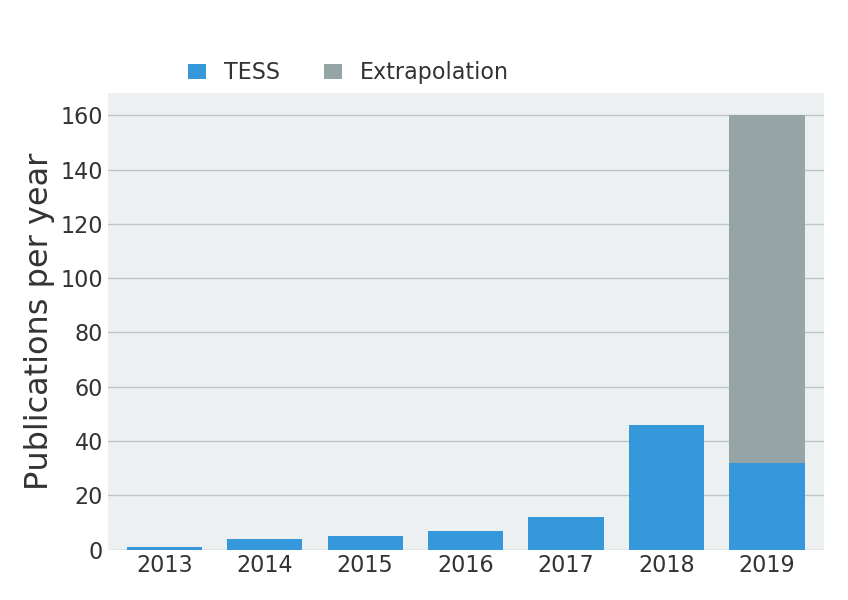
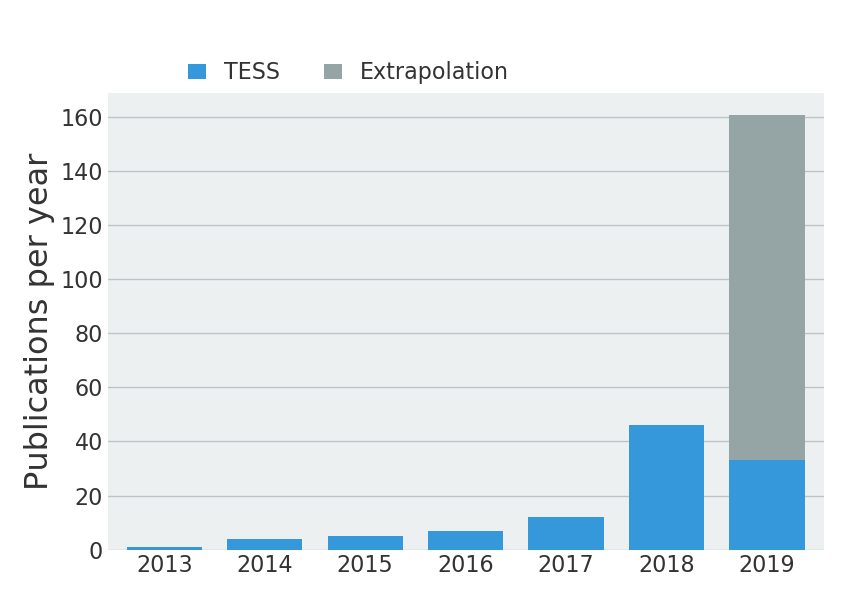
Publication stats update

diff --git a/content/pages/tpub/tpub.md b/content/pages/tpub/tpub.md
@@ -55,83 +55,87 @@ Dumusque, X., Turner, O., Dorn, C., et al.
 Gandolfi, Davide, Fossati, Luca, Livingston, John H., et al.    
 2019, not refereed ([2019arXiv190305623G](http://adsabs.harvard.edu/abs/2019arXiv190305623G))  
 
-13. [TESS EXOPLANET CANDIDATES VALIDATED WITH HARPS ARCHIVAL DATA. A MASSIVE NEPTUNE AROUND GJ 143 AND TWO NEPTUNES AROUND HD 23472](http://adsabs.harvard.edu/abs/2019A&A...622L...7T)  
+13. [A SUPER-EARTH AND TWO SUB-NEPTUNES TRANSITING THE BRIGHT, NEARBY, AND QUIET M-DWARF TOI-270](http://adsabs.harvard.edu/abs/2019arXiv190306107G)  
+Günther, Maximilian N., Pozuelos, Francisco J., Dittmann, Jason A., et al.    
+2019, not refereed ([2019arXiv190306107G](http://adsabs.harvard.edu/abs/2019arXiv190306107G))  
+
+14. [TESS EXOPLANET CANDIDATES VALIDATED WITH HARPS ARCHIVAL DATA. A MASSIVE NEPTUNE AROUND GJ 143 AND TWO NEPTUNES AROUND HD 23472](http://adsabs.harvard.edu/abs/2019A&A...622L...7T)  
 Trifonov, Trifon, Rybizki, Jan, Kürster, Martin    
 2019, refereed ([2019A&A...622L...7T](http://adsabs.harvard.edu/abs/2019A&A...622L...7T))  
 
-14. [HD 202772A B: A TRANSITING HOT JUPITER AROUND A BRIGHT, MILDLY EVOLVED STAR IN A VISUAL BINARY DISCOVERED BY TESS](http://adsabs.harvard.edu/abs/2019AJ....157...51W)  
+15. [HD 202772A B: A TRANSITING HOT JUPITER AROUND A BRIGHT, MILDLY EVOLVED STAR IN A VISUAL BINARY DISCOVERED BY TESS](http://adsabs.harvard.edu/abs/2019AJ....157...51W)  
 Wang, Songhu, Jones, Matias, Shporer, Avi, et al.    
 2019, refereed ([2019AJ....157...51W](http://adsabs.harvard.edu/abs/2019AJ....157...51W))  
 
-15. [AN ESTIMATE OF THE YIELD OF SINGLE-TRANSIT PLANETARY EVENTS FROM THE TRANSITING EXOPLANET SURVEY SATELLITE](http://adsabs.harvard.edu/abs/2019AJ....157...84V)  
+16. [AN ESTIMATE OF THE YIELD OF SINGLE-TRANSIT PLANETARY EVENTS FROM THE TRANSITING EXOPLANET SURVEY SATELLITE](http://adsabs.harvard.edu/abs/2019AJ....157...84V)  
 Villanueva, Steven, Jr., Dragomir, Diana, Gaudi, B. Scott    
 2019, refereed ([2019AJ....157...84V](http://adsabs.harvard.edu/abs/2019AJ....157...84V))  
 
-16. [TESS DISCOVERY OF AN ULTRA-SHORT-PERIOD PLANET AROUND THE NEARBY M DWARF LHS 3844](http://adsabs.harvard.edu/abs/2019ApJ...871L..24V)  
+17. [TESS DISCOVERY OF AN ULTRA-SHORT-PERIOD PLANET AROUND THE NEARBY M DWARF LHS 3844](http://adsabs.harvard.edu/abs/2019ApJ...871L..24V)  
 Vanderspek, Roland, Huang, Chelsea X., Vanderburg, Andrew, et al.    
 2019, refereed ([2019ApJ...871L..24V](http://adsabs.harvard.edu/abs/2019ApJ...871L..24V))  
 
-17. [DIVERSE VARIABILITY OF O AND B STARS REVEALED FROM 2-MINUTE CADENCE LIGHT CURVES IN SECTORS 1 AND 2 OF THE TESS MISSION: SELECTION OF AN ASTEROSEISMIC SAMPLE](http://adsabs.harvard.edu/abs/2019ApJ...872L...9P)  
+18. [DIVERSE VARIABILITY OF O AND B STARS REVEALED FROM 2-MINUTE CADENCE LIGHT CURVES IN SECTORS 1 AND 2 OF THE TESS MISSION: SELECTION OF AN ASTEROSEISMIC SAMPLE](http://adsabs.harvard.edu/abs/2019ApJ...872L...9P)  
 Pedersen, May G., Chowdhury, Sowgata, Johnston, Cole, et al.    
 2019, refereed ([2019ApJ...872L...9P](http://adsabs.harvard.edu/abs/2019ApJ...872L...9P))  
 
-18. [EXOPLANETS IN THE ANTARCTIC SKY. I. THE FIRST DATA RELEASE OF AST3-II (CHESPA) AND NEW FOUND VARIABLES WITHIN THE SOUTHERN CVZ OF TESS](http://adsabs.harvard.edu/abs/2019ApJS..240...16Z)  
+19. [EXOPLANETS IN THE ANTARCTIC SKY. I. THE FIRST DATA RELEASE OF AST3-II (CHESPA) AND NEW FOUND VARIABLES WITHIN THE SOUTHERN CVZ OF TESS](http://adsabs.harvard.edu/abs/2019ApJS..240...16Z)  
 Zhang, Hui, Yu, Zhouyi, Liang, Ensi, et al.    
 2019, refereed ([2019ApJS..240...16Z](http://adsabs.harvard.edu/abs/2019ApJS..240...16Z))  
 
-19. [EXOPLANETS IN THE ANTARCTIC SKY. II. 116 TRANSITING EXOPLANET CANDIDATES FOUND BY AST3-II (CHESPA) WITHIN THE SOUTHERN CVZ OF TESS](http://adsabs.harvard.edu/abs/2019ApJS..240...17Z)  
+20. [EXOPLANETS IN THE ANTARCTIC SKY. II. 116 TRANSITING EXOPLANET CANDIDATES FOUND BY AST3-II (CHESPA) WITHIN THE SOUTHERN CVZ OF TESS](http://adsabs.harvard.edu/abs/2019ApJS..240...17Z)  
 Zhang, Hui, Yu, Zhouyi, Liang, Ensi, et al.    
 2019, refereed ([2019ApJS..240...17Z](http://adsabs.harvard.edu/abs/2019ApJS..240...17Z))  
 
-20. [ROTATIONAL MODULATION IN TESS B STARS](http://adsabs.harvard.edu/abs/2019MNRAS.tmp..576B)  
+21. [ROTATIONAL MODULATION IN TESS B STARS](http://adsabs.harvard.edu/abs/2019MNRAS.tmp..576B)  
 Balona, L. A., Handler, G., Chowdhury, S., et al.    
 2019, refereed ([2019MNRAS.tmp..576B](http://adsabs.harvard.edu/abs/2019MNRAS.tmp..576B))  
 
-21. [A RESONANT PAIR OF WARM GIANT PLANETS REVEALED BY TESS](http://adsabs.harvard.edu/abs/2019arXiv190203900K)  
+22. [A RESONANT PAIR OF WARM GIANT PLANETS REVEALED BY TESS](http://adsabs.harvard.edu/abs/2019arXiv190203900K)  
 Kipping, David, Nesvorný, David, Hartman, Joel, et al.    
 2019, not refereed ([2019arXiv190203900K](http://adsabs.harvard.edu/abs/2019arXiv190203900K))  
 
-22. [RAPID CLASSIFICATION OF TESS PLANET CANDIDATES WITH CONVOLUTIONAL NEURAL NETWORKS](http://adsabs.harvard.edu/abs/2019arXiv190208544O)  
+23. [RAPID CLASSIFICATION OF TESS PLANET CANDIDATES WITH CONVOLUTIONAL NEURAL NETWORKS](http://adsabs.harvard.edu/abs/2019arXiv190208544O)  
 Osborn, Hugh P., Ansdell, Megan, Ioannou, Yani, et al.    
 2019, not refereed ([2019arXiv190208544O](http://adsabs.harvard.edu/abs/2019arXiv190208544O))  
 
-23. [TOI-150: A TRANSITING HOT JUPITER IN THE TESS SOUTHERN CVZ](http://adsabs.harvard.edu/abs/2019arXiv190209710C)  
+24. [TOI-150: A TRANSITING HOT JUPITER IN THE TESS SOUTHERN CVZ](http://adsabs.harvard.edu/abs/2019arXiv190209710C)  
 Cañas, Caleb I., Stefansson, Gudmundur, Monson, Andrew J., et al.    
 2019, not refereed ([2019arXiv190209710C](http://adsabs.harvard.edu/abs/2019arXiv190209710C))  
 
-24. [FLIPER$_{CLASS}$: IN SEARCH OF SOLAR-LIKE PULSATORS AMONG TESS TARGETS](http://adsabs.harvard.edu/abs/2019arXiv190209854B)  
+25. [FLIPER$_{CLASS}$: IN SEARCH OF SOLAR-LIKE PULSATORS AMONG TESS TARGETS](http://adsabs.harvard.edu/abs/2019arXiv190209854B)  
 Bugnet, L., García, R. A., Mathur, S., et al.    
 2019, not refereed ([2019arXiv190209854B](http://adsabs.harvard.edu/abs/2019arXiv190209854B))  
 
-25. [PRECOVERY OF TRANSITING EXOPLANET SURVEY SATELLITE SINGLE TRANSITS WITH KILODEGREE EXTREMELY LITTLE TELESCOPE](http://adsabs.harvard.edu/abs/2019AJ....157...37Y)  
+26. [PRECOVERY OF TRANSITING EXOPLANET SURVEY SATELLITE SINGLE TRANSITS WITH KILODEGREE EXTREMELY LITTLE TELESCOPE](http://adsabs.harvard.edu/abs/2019AJ....157...37Y)  
 Yao, Xinyu, Pepper, Joshua, Gaudi, B. Scott, et al.    
 2019, refereed ([2019AJ....157...37Y](http://adsabs.harvard.edu/abs/2019AJ....157...37Y))  
 
-26. [STELLAR FLARES FROM THE FIRST TESS DATA RELEASE: EXPLORING A NEW SAMPLE OF M-DWARFS](http://adsabs.harvard.edu/abs/2019arXiv190100443G)  
+27. [STELLAR FLARES FROM THE FIRST TESS DATA RELEASE: EXPLORING A NEW SAMPLE OF M-DWARFS](http://adsabs.harvard.edu/abs/2019arXiv190100443G)  
 Günther, Maximilian N., Zhan, Zhuchang, Seager, Sara, et al.    
 2019, not refereed ([2019arXiv190100443G](http://adsabs.harvard.edu/abs/2019arXiv190100443G))  
 
-27. [A HOT SATURN ORBITING AN OSCILLATING LATE SUBGIANT DISCOVERED BY TESS](http://adsabs.harvard.edu/abs/2019arXiv190101643H)  
+28. [A HOT SATURN ORBITING AN OSCILLATING LATE SUBGIANT DISCOVERED BY TESS](http://adsabs.harvard.edu/abs/2019arXiv190101643H)  
 Huber, Daniel, Chaplin, William J., Chontos, Ashley, et al.    
 2019, not refereed ([2019arXiv190101643H](http://adsabs.harvard.edu/abs/2019arXiv190101643H))  
 
-28. [CO-ORBITAL EXOPLANETS FROM CLOSE PERIOD CANDIDATES: THE TOI-178 CASE](http://adsabs.harvard.edu/abs/2019arXiv190107250L)  
+29. [CO-ORBITAL EXOPLANETS FROM CLOSE PERIOD CANDIDATES: THE TOI-178 CASE](http://adsabs.harvard.edu/abs/2019arXiv190107250L)  
 Leleu, Adrien, Lillo-Box, Jorge, Sestovic, Marko, et al.    
 2019, not refereed ([2019arXiv190107250L](http://adsabs.harvard.edu/abs/2019arXiv190107250L))  
 
-29. [NEAR-RESONANCE IN A SYSTEM OF SUB-NEPTUNES FROM TESS](http://adsabs.harvard.edu/abs/2019arXiv190109092Q)  
+30. [NEAR-RESONANCE IN A SYSTEM OF SUB-NEPTUNES FROM TESS](http://adsabs.harvard.edu/abs/2019arXiv190109092Q)  
 Quinn, Samuel N., Becker, Juliette C., Rodriguez, Joseph E., et al.    
 2019, not refereed ([2019arXiv190109092Q](http://adsabs.harvard.edu/abs/2019arXiv190109092Q))  
 
-30. [SHORT TERM VARIABILITY OF EVOLVED MASSIVE STARS WITH TESS](http://adsabs.harvard.edu/abs/2019arXiv190109930D)  
+31. [SHORT TERM VARIABILITY OF EVOLVED MASSIVE STARS WITH TESS](http://adsabs.harvard.edu/abs/2019arXiv190109930D)  
 Dorn-Wallenstein, Trevor Z., Levesque, Emily M., Davenport, James R. A.    
 2019, not refereed ([2019arXiv190109930D](http://adsabs.harvard.edu/abs/2019arXiv190109930D))  
 
-31. [AN ECCENTRIC MASSIVE JUPITER ORBITING A SUB-GIANT ON A 9.5 DAY PERIOD DISCOVERED IN THE TRANSITING EXOPLANET SURVEY SATELLITE FULL FRAME IMAGES](http://adsabs.harvard.edu/abs/2019arXiv190109950R)  
+32. [AN ECCENTRIC MASSIVE JUPITER ORBITING A SUB-GIANT ON A 9.5 DAY PERIOD DISCOVERED IN THE TRANSITING EXOPLANET SURVEY SATELLITE FULL FRAME IMAGES](http://adsabs.harvard.edu/abs/2019arXiv190109950R)  
 Rodriguez, Joseph E., Quinn, Samuel N., Huang, Chelsea X., et al.    
 2019, not refereed ([2019arXiv190109950R](http://adsabs.harvard.edu/abs/2019arXiv190109950R))  
 
-32. [THE ASTEROSEISMIC TARGET LIST (ATL) FOR SOLAR-LIKE OSCILLATORS OBSERVED IN 2-MINUTE CADENCE WITH THE TRANSITING EXOPLANET SURVEY SATELLITE (TESS)](http://adsabs.harvard.edu/abs/2019arXiv190110148S)  
+33. [THE ASTEROSEISMIC TARGET LIST (ATL) FOR SOLAR-LIKE OSCILLATORS OBSERVED IN 2-MINUTE CADENCE WITH THE TRANSITING EXOPLANET SURVEY SATELLITE (TESS)](http://adsabs.harvard.edu/abs/2019arXiv190110148S)  
 Schofield, M., Chaplin, W. J., Huber, D., et al.    
 2019, not refereed ([2019arXiv190110148S](http://adsabs.harvard.edu/abs/2019arXiv190110148S))  
 

diff --git a/content/pages/tpub/tpub-exoplanets.md b/content/pages/tpub/tpub-exoplanets.md
@@ -31,59 +31,63 @@ Dumusque, X., Turner, O., Dorn, C., et al.
 Gandolfi, Davide, Fossati, Luca, Livingston, John H., et al.    
 2019, not refereed ([2019arXiv190305623G](http://adsabs.harvard.edu/abs/2019arXiv190305623G))  
 
-7. [TESS EXOPLANET CANDIDATES VALIDATED WITH HARPS ARCHIVAL DATA. A MASSIVE NEPTUNE AROUND GJ 143 AND TWO NEPTUNES AROUND HD 23472](http://adsabs.harvard.edu/abs/2019A&A...622L...7T)  
+7. [A SUPER-EARTH AND TWO SUB-NEPTUNES TRANSITING THE BRIGHT, NEARBY, AND QUIET M-DWARF TOI-270](http://adsabs.harvard.edu/abs/2019arXiv190306107G)  
+Günther, Maximilian N., Pozuelos, Francisco J., Dittmann, Jason A., et al.    
+2019, not refereed ([2019arXiv190306107G](http://adsabs.harvard.edu/abs/2019arXiv190306107G))  
+
+8. [TESS EXOPLANET CANDIDATES VALIDATED WITH HARPS ARCHIVAL DATA. A MASSIVE NEPTUNE AROUND GJ 143 AND TWO NEPTUNES AROUND HD 23472](http://adsabs.harvard.edu/abs/2019A&A...622L...7T)  
 Trifonov, Trifon, Rybizki, Jan, Kürster, Martin    
 2019, refereed ([2019A&A...622L...7T](http://adsabs.harvard.edu/abs/2019A&A...622L...7T))  
 
-8. [HD 202772A B: A TRANSITING HOT JUPITER AROUND A BRIGHT, MILDLY EVOLVED STAR IN A VISUAL BINARY DISCOVERED BY TESS](http://adsabs.harvard.edu/abs/2019AJ....157...51W)  
+9. [HD 202772A B: A TRANSITING HOT JUPITER AROUND A BRIGHT, MILDLY EVOLVED STAR IN A VISUAL BINARY DISCOVERED BY TESS](http://adsabs.harvard.edu/abs/2019AJ....157...51W)  
 Wang, Songhu, Jones, Matias, Shporer, Avi, et al.    
 2019, refereed ([2019AJ....157...51W](http://adsabs.harvard.edu/abs/2019AJ....157...51W))  
 
-9. [AN ESTIMATE OF THE YIELD OF SINGLE-TRANSIT PLANETARY EVENTS FROM THE TRANSITING EXOPLANET SURVEY SATELLITE](http://adsabs.harvard.edu/abs/2019AJ....157...84V)  
+10. [AN ESTIMATE OF THE YIELD OF SINGLE-TRANSIT PLANETARY EVENTS FROM THE TRANSITING EXOPLANET SURVEY SATELLITE](http://adsabs.harvard.edu/abs/2019AJ....157...84V)  
 Villanueva, Steven, Jr., Dragomir, Diana, Gaudi, B. Scott    
 2019, refereed ([2019AJ....157...84V](http://adsabs.harvard.edu/abs/2019AJ....157...84V))  
 
-10. [TESS DISCOVERY OF AN ULTRA-SHORT-PERIOD PLANET AROUND THE NEARBY M DWARF LHS 3844](http://adsabs.harvard.edu/abs/2019ApJ...871L..24V)  
+11. [TESS DISCOVERY OF AN ULTRA-SHORT-PERIOD PLANET AROUND THE NEARBY M DWARF LHS 3844](http://adsabs.harvard.edu/abs/2019ApJ...871L..24V)  
 Vanderspek, Roland, Huang, Chelsea X., Vanderburg, Andrew, et al.    
 2019, refereed ([2019ApJ...871L..24V](http://adsabs.harvard.edu/abs/2019ApJ...871L..24V))  
 
-11. [EXOPLANETS IN THE ANTARCTIC SKY. I. THE FIRST DATA RELEASE OF AST3-II (CHESPA) AND NEW FOUND VARIABLES WITHIN THE SOUTHERN CVZ OF TESS](http://adsabs.harvard.edu/abs/2019ApJS..240...16Z)  
+12. [EXOPLANETS IN THE ANTARCTIC SKY. I. THE FIRST DATA RELEASE OF AST3-II (CHESPA) AND NEW FOUND VARIABLES WITHIN THE SOUTHERN CVZ OF TESS](http://adsabs.harvard.edu/abs/2019ApJS..240...16Z)  
 Zhang, Hui, Yu, Zhouyi, Liang, Ensi, et al.    
 2019, refereed ([2019ApJS..240...16Z](http://adsabs.harvard.edu/abs/2019ApJS..240...16Z))  
 
-12. [EXOPLANETS IN THE ANTARCTIC SKY. II. 116 TRANSITING EXOPLANET CANDIDATES FOUND BY AST3-II (CHESPA) WITHIN THE SOUTHERN CVZ OF TESS](http://adsabs.harvard.edu/abs/2019ApJS..240...17Z)  
+13. [EXOPLANETS IN THE ANTARCTIC SKY. II. 116 TRANSITING EXOPLANET CANDIDATES FOUND BY AST3-II (CHESPA) WITHIN THE SOUTHERN CVZ OF TESS](http://adsabs.harvard.edu/abs/2019ApJS..240...17Z)  
 Zhang, Hui, Yu, Zhouyi, Liang, Ensi, et al.    
 2019, refereed ([2019ApJS..240...17Z](http://adsabs.harvard.edu/abs/2019ApJS..240...17Z))  
 
-13. [A RESONANT PAIR OF WARM GIANT PLANETS REVEALED BY TESS](http://adsabs.harvard.edu/abs/2019arXiv190203900K)  
+14. [A RESONANT PAIR OF WARM GIANT PLANETS REVEALED BY TESS](http://adsabs.harvard.edu/abs/2019arXiv190203900K)  
 Kipping, David, Nesvorný, David, Hartman, Joel, et al.    
 2019, not refereed ([2019arXiv190203900K](http://adsabs.harvard.edu/abs/2019arXiv190203900K))  
 
-14. [RAPID CLASSIFICATION OF TESS PLANET CANDIDATES WITH CONVOLUTIONAL NEURAL NETWORKS](http://adsabs.harvard.edu/abs/2019arXiv190208544O)  
+15. [RAPID CLASSIFICATION OF TESS PLANET CANDIDATES WITH CONVOLUTIONAL NEURAL NETWORKS](http://adsabs.harvard.edu/abs/2019arXiv190208544O)  
 Osborn, Hugh P., Ansdell, Megan, Ioannou, Yani, et al.    
 2019, not refereed ([2019arXiv190208544O](http://adsabs.harvard.edu/abs/2019arXiv190208544O))  
 
-15. [TOI-150: A TRANSITING HOT JUPITER IN THE TESS SOUTHERN CVZ](http://adsabs.harvard.edu/abs/2019arXiv190209710C)  
+16. [TOI-150: A TRANSITING HOT JUPITER IN THE TESS SOUTHERN CVZ](http://adsabs.harvard.edu/abs/2019arXiv190209710C)  
 Cañas, Caleb I., Stefansson, Gudmundur, Monson, Andrew J., et al.    
 2019, not refereed ([2019arXiv190209710C](http://adsabs.harvard.edu/abs/2019arXiv190209710C))  
 
-16. [PRECOVERY OF TRANSITING EXOPLANET SURVEY SATELLITE SINGLE TRANSITS WITH KILODEGREE EXTREMELY LITTLE TELESCOPE](http://adsabs.harvard.edu/abs/2019AJ....157...37Y)  
+17. [PRECOVERY OF TRANSITING EXOPLANET SURVEY SATELLITE SINGLE TRANSITS WITH KILODEGREE EXTREMELY LITTLE TELESCOPE](http://adsabs.harvard.edu/abs/2019AJ....157...37Y)  
 Yao, Xinyu, Pepper, Joshua, Gaudi, B. Scott, et al.    
 2019, refereed ([2019AJ....157...37Y](http://adsabs.harvard.edu/abs/2019AJ....157...37Y))  
 
-17. [A HOT SATURN ORBITING AN OSCILLATING LATE SUBGIANT DISCOVERED BY TESS](http://adsabs.harvard.edu/abs/2019arXiv190101643H)  
+18. [A HOT SATURN ORBITING AN OSCILLATING LATE SUBGIANT DISCOVERED BY TESS](http://adsabs.harvard.edu/abs/2019arXiv190101643H)  
 Huber, Daniel, Chaplin, William J., Chontos, Ashley, et al.    
 2019, not refereed ([2019arXiv190101643H](http://adsabs.harvard.edu/abs/2019arXiv190101643H))  
 
-18. [CO-ORBITAL EXOPLANETS FROM CLOSE PERIOD CANDIDATES: THE TOI-178 CASE](http://adsabs.harvard.edu/abs/2019arXiv190107250L)  
+19. [CO-ORBITAL EXOPLANETS FROM CLOSE PERIOD CANDIDATES: THE TOI-178 CASE](http://adsabs.harvard.edu/abs/2019arXiv190107250L)  
 Leleu, Adrien, Lillo-Box, Jorge, Sestovic, Marko, et al.    
 2019, not refereed ([2019arXiv190107250L](http://adsabs.harvard.edu/abs/2019arXiv190107250L))  
 
-19. [NEAR-RESONANCE IN A SYSTEM OF SUB-NEPTUNES FROM TESS](http://adsabs.harvard.edu/abs/2019arXiv190109092Q)  
+20. [NEAR-RESONANCE IN A SYSTEM OF SUB-NEPTUNES FROM TESS](http://adsabs.harvard.edu/abs/2019arXiv190109092Q)  
 Quinn, Samuel N., Becker, Juliette C., Rodriguez, Joseph E., et al.    
 2019, not refereed ([2019arXiv190109092Q](http://adsabs.harvard.edu/abs/2019arXiv190109092Q))  
 
-20. [AN ECCENTRIC MASSIVE JUPITER ORBITING A SUB-GIANT ON A 9.5 DAY PERIOD DISCOVERED IN THE TRANSITING EXOPLANET SURVEY SATELLITE FULL FRAME IMAGES](http://adsabs.harvard.edu/abs/2019arXiv190109950R)  
+21. [AN ECCENTRIC MASSIVE JUPITER ORBITING A SUB-GIANT ON A 9.5 DAY PERIOD DISCOVERED IN THE TRANSITING EXOPLANET SURVEY SATELLITE FULL FRAME IMAGES](http://adsabs.harvard.edu/abs/2019arXiv190109950R)  
 Rodriguez, Joseph E., Quinn, Samuel N., Huang, Chelsea X., et al.    
 2019, not refereed ([2019arXiv190109950R](http://adsabs.harvard.edu/abs/2019arXiv190109950R))  
 

diff --git a/content/pages/tpub/publications.md b/content/pages/tpub/publications.md
@@ -12,7 +12,7 @@ the TESS mission is provided by the NASA Explorer Program.*
 
 The TESS Science Support Center curates a list of scientific publications
 pertaining to TESS.
-The database contains 107 publications,
+The database contains 108 publications,
 of which 56 are peer-reviewed.
 It demonstrates the important impact of TESS data
 on astronomical research.
@@ -29,7 +29,7 @@ Or seach by topic:
 If you spot an error in the database, such as a missing entry,
 please get in touch or open an issue in the <a href="https://github.com/tessgi/tpub">GitHub repository</a> of the database.
 
-Last update: 14 Mar 2019.
+Last update: 16 Mar 2019.
 
 <hr/>
 
@@ -46,7 +46,7 @@ of year.
 
 Both TESS data have been used for scientific applications
 that reach far beyond exoplanet research.
-While 62 works relate to exoplanets
+While 63 works relate to exoplanets
 (58%),
 a total of 45
 pertain to other areas of astrophysics
@@ -130,7 +130,7 @@ within the last 90 days.
 <!-- ## Most-active authors
 
 The entries in the publication database have been authored and co-authored
-by a total of 839 unique author names.
+by a total of 847 unique author names.
 Here we list the most-active authors, defined as those with six or more first-author publications in our database.
 
 -->

diff --git a/content/pages/tpub/tpub-by-month.md b/content/pages/tpub/tpub-by-month.md
@@ -59,6 +59,10 @@ Dumusque, X., Turner, O., Dorn, C., et al.
 Gandolfi, Davide, Fossati, Luca, Livingston, John H., et al.    
 2019, not refereed ([2019arXiv190305623G](http://adsabs.harvard.edu/abs/2019arXiv190305623G))  
 
+12. [A SUPER-EARTH AND TWO SUB-NEPTUNES TRANSITING THE BRIGHT, NEARBY, AND QUIET M-DWARF TOI-270](http://adsabs.harvard.edu/abs/2019arXiv190306107G)  
+Günther, Maximilian N., Pozuelos, Francisco J., Dittmann, Jason A., et al.    
+2019, not refereed ([2019arXiv190306107G](http://adsabs.harvard.edu/abs/2019arXiv190306107G))  
+
 
 2019-02
 -------

diff --git a/content/pages/tpub/tpub-exoplanets-by-month.md b/content/pages/tpub/tpub-exoplanets-by-month.md
@@ -31,6 +31,10 @@ Dumusque, X., Turner, O., Dorn, C., et al.
 Gandolfi, Davide, Fossati, Luca, Livingston, John H., et al.    
 2019, not refereed ([2019arXiv190305623G](http://adsabs.harvard.edu/abs/2019arXiv190305623G))  
 
+7. [A SUPER-EARTH AND TWO SUB-NEPTUNES TRANSITING THE BRIGHT, NEARBY, AND QUIET M-DWARF TOI-270](http://adsabs.harvard.edu/abs/2019arXiv190306107G)  
+Günther, Maximilian N., Pozuelos, Francisco J., Dittmann, Jason A., et al.    
+2019, not refereed ([2019arXiv190306107G](http://adsabs.harvard.edu/abs/2019arXiv190306107G))  
+
 
 2019-02
 -------
